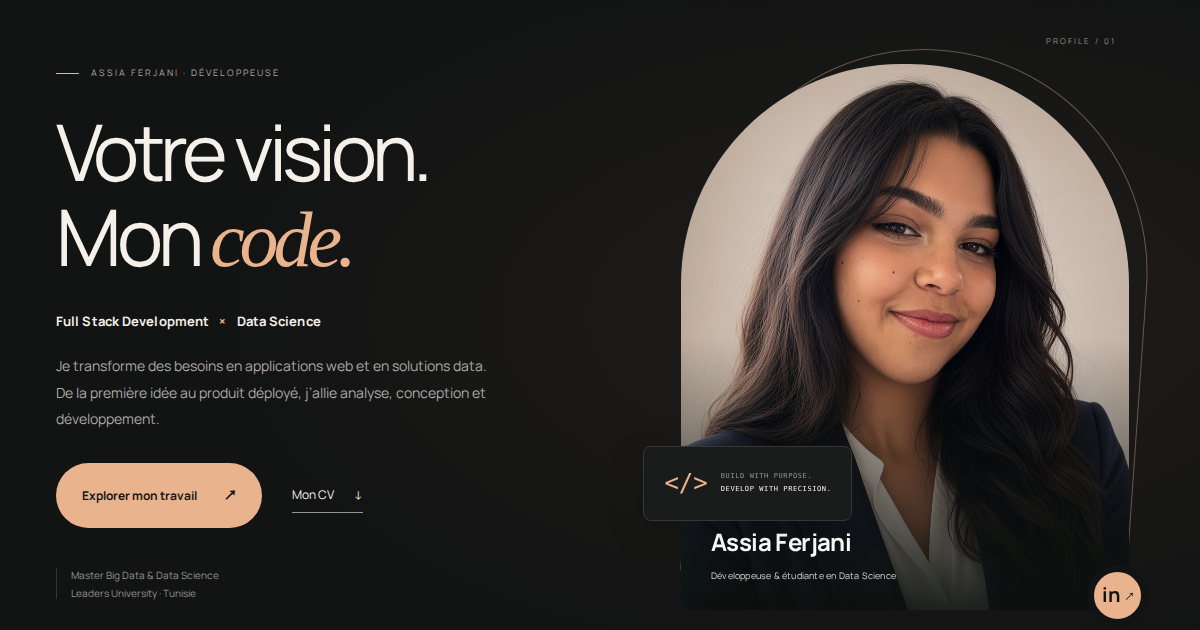
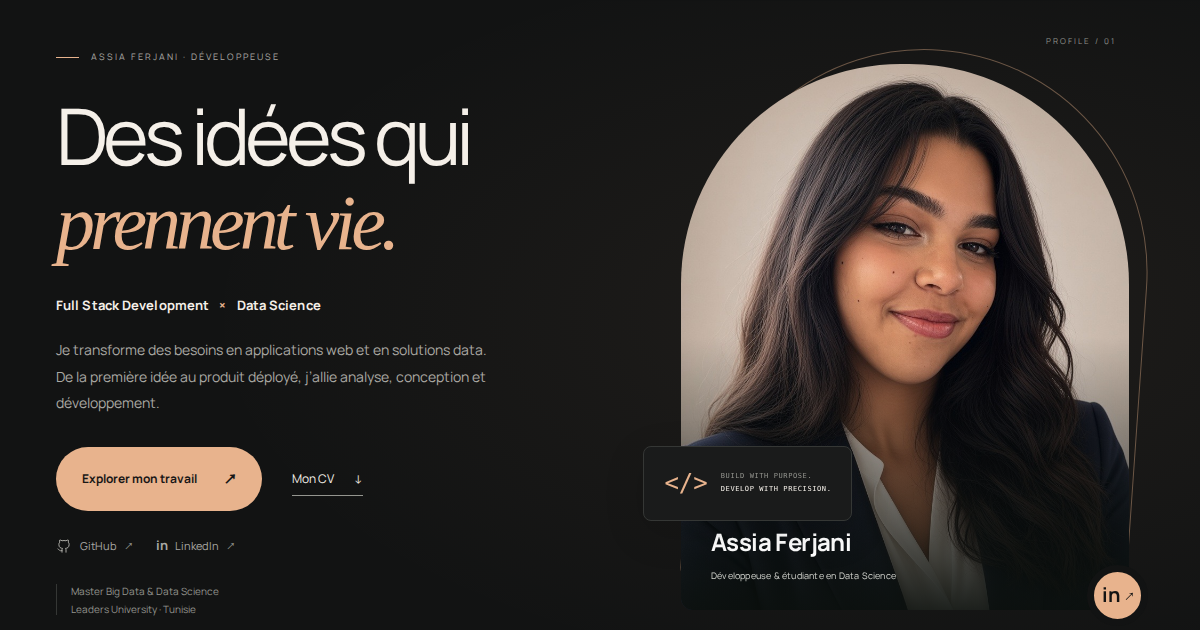
Refresh hero headline and add professional profile links

diff --git a/index.html b/index.html
@@ -11,10 +11,10 @@
 <a href="#main" class="skip-link" data-fr="Aller au contenu" data-en="Skip to content">Aller au contenu</a>
 <header class="site-header"><div class="nav-shell"><a href="#" class="wordmark" aria-label="Assia Ferjani — accueil"><span class="brand-icon">af</span><span>Assia Ferjani<span class="brand-caption">FULL STACK · DATA SCIENCE</span></span></a><nav class="desktop-nav" aria-label="Navigation principale"><a href="#projects" data-fr="Projets" data-en="Projects">Projets</a><a href="#about" data-fr="Expertises" data-en="Expertise">Expertises</a><a href="#journey" data-fr="Parcours" data-en="Experience">Parcours</a></nav><div class="nav-actions"><div class="language-switch" aria-label="Language"><button data-lang="fr" aria-pressed="true">FR</button><button data-lang="en" aria-pressed="false">EN</button></div><button id="theme-toggle" class="theme-toggle" type="button" aria-label="Activer le mode clair" title="Activer le mode clair"><svg class="sun" viewBox="0 0 24 24" aria-hidden="true"><circle cx="12" cy="12" r="4"/><path d="M12 2v2m0 16v2M2 12h2m16 0h2M5 5l1.5 1.5m11 11L19 19M5 19l1.5-1.5m11-11L19 5"/></svg><svg class="moon" viewBox="0 0 24 24" aria-hidden="true"><path d="M20.5 13a8.5 8.5 0 0 1-9.5-9.5A8.5 8.5 0 1 0 20.5 13Z"/></svg></button><a class="nav-contact" href="#contact"><span data-fr="Contact" data-en="Contact">Contact</span><span aria-hidden="true">↗</span></a><button class="menu-toggle" aria-expanded="false" aria-controls="mobile-nav" aria-label="Ouvrir le menu"><span></span><span></span></button></div></div><nav id="mobile-nav" class="mobile-nav" hidden aria-label="Navigation mobile"><a href="#projects" data-fr="Projets" data-en="Projects">Projets</a><a href="#about" data-fr="Expertises" data-en="Expertise">Expertises</a><a href="#journey" data-fr="Parcours" data-en="Experience">Parcours</a><a href="#contact">Contact</a></nav></header>
 <main id="main">
-<section class="hero" aria-labelledby="hero-title"><div class="hero-light" aria-hidden="true"></div><div class="container hero-composition"><div class="hero-copy"><div class="intro-kicker"><span></span><span data-fr="ASSIA FERJANI · DÉVELOPPEUSE" data-en="ASSIA FERJANI · DEVELOPER">ASSIA FERJANI · DÉVELOPPEUSE</span></div><h1 id="hero-title" data-fr="Votre vision.<br>Mon <em>code.</em>" data-en="Your vision.<br>My <em>code.</em>">Votre vision.<br>Mon <em>code.</em></h1><p class="hero-specialty">Full Stack Development <span>×</span> Data Science</p><p class="hero-intro" data-fr="Je transforme des besoins en applications web et en solutions data. De la première idée au produit déployé, j’allie analyse, conception et développement." data-en="I turn ideas into web applications and data solutions. From the first concept to deployment, I bring together analysis, design and development.">Je transforme des besoins en applications web et en solutions data. De la première idée au produit déployé, j’allie analyse, conception et développement.</p><div class="hero-actions"><a class="button primary" href="#projects"><span data-fr="Explorer mon travail" data-en="Explore my work">Explorer mon travail</span><span aria-hidden="true">↗</span></a><a class="resume-link" href="assets/Assia_Ferjani_CV.pdf" download><span data-fr="Mon CV" data-en="My CV (FR)">Mon CV</span><span aria-hidden="true">↓</span></a></div><div class="hero-detail"><span class="detail-line"></span><span data-fr="Master Big Data & Data Science<br>Leaders University · Tunisie" data-en="Master’s in Big Data & Data Science<br>Leaders University · Tunisia">Master Big Data & Data Science<br>Leaders University · Tunisie</span></div></div><div class="portrait-stage"><span class="portrait-coordinate" aria-hidden="true">PROFILE / 01</span><div class="portrait-outline" aria-hidden="true"></div><div class="portrait-frame"><img src="assets/assia-portrait.jpeg" alt="Portrait d’Assia Ferjani" width="1024" height="1024" fetchpriority="high"><div class="portrait-caption"><span>Assia Ferjani</span><span data-fr="Développeuse & étudiante en Data Science" data-en="Developer & Data Science student">Développeuse & étudiante en Data Science</span></div></div><div class="floating-code" aria-hidden="true"><span class="code-mark">&lt;/&gt;</span><span>BUILD WITH PURPOSE.<br><b>DEVELOP WITH PRECISION.</b></span></div><a class="portrait-social" href="https://www.linkedin.com/in/assiaferjani" target="_blank" rel="noopener noreferrer" aria-label="Profil LinkedIn d’Assia Ferjani">in <span>↗</span></a></div><div class="hero-bottom"><span data-fr="DE L’IDÉE À L’INTERFACE." data-en="FROM IDEA TO INTERFACE.">DE L’IDÉE À L’INTERFACE.</span><a href="#projects"><span data-fr="DÉCOUVRIR LES PROJETS" data-en="DISCOVER THE WORK">DÉCOUVRIR LES PROJETS</span><span aria-hidden="true">↓</span></a></div></div></section><div class="tech-ribbon" aria-label="Technologies"><div class="ribbon-track"><span>React</span><i>✳</i><span>Python</span><i>✳</i><span>TypeScript</span><i>✳</i><span>Node.js</span><i>✳</i><span>Apache Spark</span><i>✳</i><span>Microsoft Fabric</span></div></div>
+<section class="hero" aria-labelledby="hero-title"><div class="hero-light" aria-hidden="true"></div><div class="container hero-composition"><div class="hero-copy"><div class="intro-kicker"><span></span><span data-fr="ASSIA FERJANI · DÉVELOPPEUSE" data-en="ASSIA FERJANI · DEVELOPER">ASSIA FERJANI · DÉVELOPPEUSE</span></div><h1 id="hero-title" data-fr="Des idées qui<br><em>prennent vie.</em>" data-en="Where ideas<br><em>come to life.</em>">Des idées qui<br><em>prennent vie.</em></h1><p class="hero-specialty">Full Stack Development <span>×</span> Data Science</p><p class="hero-intro" data-fr="Je transforme des besoins en applications web et en solutions data. De la première idée au produit déployé, j’allie analyse, conception et développement." data-en="I turn ideas into web applications and data solutions. From the first concept to deployment, I bring together analysis, design and development.">Je transforme des besoins en applications web et en solutions data. De la première idée au produit déployé, j’allie analyse, conception et développement.</p><div class="hero-actions"><a class="button primary" href="#projects"><span data-fr="Explorer mon travail" data-en="Explore my work">Explorer mon travail</span><span aria-hidden="true">↗</span></a><a class="resume-link" href="assets/Assia_Ferjani_CV.pdf" download><span data-fr="Mon CV" data-en="My CV (FR)">Mon CV</span><span aria-hidden="true">↓</span></a></div><div class="hero-socials" aria-label="Profils professionnels"><a href="https://github.com/assiaferjani" target="_blank" rel="noopener noreferrer"><svg viewBox="0 0 24 24" aria-hidden="true"><path d="M9 19c-4.3 1.3-4.3-2.2-6-2.7m12 5v-3.4a3 3 0 0 0-.8-2.3c2.7-.3 5.5-1.3 5.5-6a4.7 4.7 0 0 0-1.3-3.3 4.3 4.3 0 0 0-.1-3.3S17.3 2.7 15 4.2a11.3 11.3 0 0 0-6 0C6.7 2.7 5.7 3 5.7 3a4.3 4.3 0 0 0-.1 3.3 4.7 4.7 0 0 0-1.3 3.3c0 4.7 2.8 5.7 5.5 6A3 3 0 0 0 9 18v3.3"/></svg>GitHub <span aria-hidden="true">↗</span></a><a href="https://www.linkedin.com/in/assiaferjani/" target="_blank" rel="noopener noreferrer"><span class="social-in" aria-hidden="true">in</span>LinkedIn <span aria-hidden="true">↗</span></a></div><div class="hero-detail"><span class="detail-line"></span><span data-fr="Master Big Data & Data Science<br>Leaders University · Tunisie" data-en="Master’s in Big Data & Data Science<br>Leaders University · Tunisia">Master Big Data & Data Science<br>Leaders University · Tunisie</span></div></div><div class="portrait-stage"><span class="portrait-coordinate" aria-hidden="true">PROFILE / 01</span><div class="portrait-outline" aria-hidden="true"></div><div class="portrait-frame"><img src="assets/assia-portrait.jpeg" alt="Portrait d’Assia Ferjani" width="1024" height="1024" fetchpriority="high"><div class="portrait-caption"><span>Assia Ferjani</span><span data-fr="Développeuse & étudiante en Data Science" data-en="Developer & Data Science student">Développeuse & étudiante en Data Science</span></div></div><div class="floating-code" aria-hidden="true"><span class="code-mark">&lt;/&gt;</span><span>BUILD WITH PURPOSE.<br><b>DEVELOP WITH PRECISION.</b></span></div><a class="portrait-social" href="https://www.linkedin.com/in/assiaferjani/" target="_blank" rel="noopener noreferrer" aria-label="Profil LinkedIn d’Assia Ferjani">in <span>↗</span></a></div><div class="hero-bottom"><span data-fr="DE L’IDÉE À L’INTERFACE." data-en="FROM IDEA TO INTERFACE.">DE L’IDÉE À L’INTERFACE.</span><a href="#projects"><span data-fr="DÉCOUVRIR LES PROJETS" data-en="DISCOVER THE WORK">DÉCOUVRIR LES PROJETS</span><span aria-hidden="true">↓</span></a></div></div></section><div class="tech-ribbon" aria-label="Technologies"><div class="ribbon-track"><span>React</span><i>✳</i><span>Python</span><i>✳</i><span>TypeScript</span><i>✳</i><span>Node.js</span><i>✳</i><span>Apache Spark</span><i>✳</i><span>Microsoft Fabric</span></div></div>
 <section id="projects" class="container section work-section" aria-labelledby="work-title"><div class="section-heading"><div><div class="eyebrow"><span>01</span> <span data-fr="PROJETS SÉLECTIONNÉS" data-en="SELECTED PROJECTS">PROJETS SÉLECTIONNÉS</span></div><h2 id="work-title" data-fr="Une idée. Une solution.<br><em>Du concret.</em>" data-en="An idea. A solution.<br><em>Made real.</em>">Une idée. Une solution.<br><em>Du concret.</em></h2></div><p data-fr="Applications web, machine learning et analyse de données. Une sélection de mon travail." data-en="Web applications, machine learning and data analytics. A selection of my work.">Applications web, machine learning et analyse de données. Une sélection de mon travail.</p></div><div class="work-toolbar"><div class="filters" role="group" aria-label="Filtrer les projets"><button data-filter="all" class="active" aria-pressed="true"><span data-fr="Tous" data-en="All">Tous</span><sup>06</sup></button><button data-filter="data" aria-pressed="false">Data & IA<sup>04</sup></button><button data-filter="web" aria-pressed="false">Web & SaaS<sup>02</sup></button></div><span class="project-hint" data-fr="Sélectionnez un projet pour en savoir plus ↗" data-en="Select a project to explore the details ↗">Sélectionnez un projet pour en savoir plus ↗</span></div><div id="project-grid" class="projects-grid"></div><p class="visual-note" data-fr="Les aperçus sont des illustrations conceptuelles des projets." data-en="Previews are conceptual illustrations of the projects.">Les aperçus sont des illustrations conceptuelles des projets.</p></section>
-<section id="about" class="about-section section" aria-labelledby="about-title"><div class="container"><div class="eyebrow"><span>02</span><span data-fr="PROFIL & EXPERTISES" data-en="PROFILE & EXPERTISE">PROFIL & EXPERTISES</span></div><div class="about-layout"><div class="about-copy"><h2 id="about-title" data-fr="La rigueur du code.<br>La curiosité <em>en plus.</em>" data-en="Precision in code.<br>Curiosity <em>at heart.</em>">La rigueur du code.<br>La curiosité <em>en plus.</em></h2><p data-fr="Diplômée en multimédia et développement web à l’ISET de Nabeul, je poursuis un master Big Data et Data Science à Leaders University." data-en="A graduate in Multimedia and Web Development from ISET Nabeul, I’m pursuing a master’s in Big Data and Data Science at Leaders University.">Diplômée en multimédia et développement web à l’ISET de Nabeul, je poursuis un master Big Data et Data Science à Leaders University.</p><p data-fr="Mon parcours associe développement full stack, machine learning et ingénierie des données. J’aborde chaque projet en reliant le besoin utilisateur, la qualité des données et la mise en œuvre technique." data-en="My work connects full stack development, machine learning and data engineering. I approach each project by bringing together user needs, data quality and technical implementation.">Mon parcours associe développement full stack, machine learning et ingénierie des données. J’aborde chaque projet en reliant le besoin utilisateur, la qualité des données et la mise en œuvre technique.</p><div class="profile-facts"><div><span data-fr="FORMATION ACTUELLE" data-en="CURRENT EDUCATION">FORMATION ACTUELLE</span><strong>Master Big Data & Data Science</strong></div><div><span data-fr="DOMAINES" data-en="FOCUS AREAS">DOMAINES</span><strong>Web · Machine Learning · Analytics</strong></div></div><a class="text-link" href="https://www.linkedin.com/in/assiaferjani" target="_blank" rel="noopener noreferrer"><span data-fr="Voir mon profil LinkedIn" data-en="View my LinkedIn profile">Voir mon profil LinkedIn</span><span aria-hidden="true">↗</span></a></div><div class="skills-grid"><article class="skill-card"><div class="skill-icon" aria-hidden="true"><svg viewBox="0 0 24 24"><path d="M5 5h14v14H5zM9 9h6v6H9zM9 2v3m6-3v3M9 19v3m6-3v3M2 9h3m-3 6h3M19 9h3m-3 6h3"/></svg></div><h3>Data & Machine Learning</h3><p>Python, R, pandas, scikit-learn, NLP, Hugging Face</p><span>01</span></article><article class="skill-card"><div class="skill-icon" aria-hidden="true"><svg viewBox="0 0 24 24"><path d="m8 6-6 6 6 6m8-12 6 6-6 6m-3-15-2 18"/></svg></div><h3>Full Stack Development</h3><p>React, Angular, TypeScript, Node.js, Spring Boot, MongoDB</p><span>02</span></article><article class="skill-card"><div class="skill-icon" aria-hidden="true"><svg viewBox="0 0 24 24"><ellipse cx="12" cy="5" rx="8" ry="3"/><path d="M4 5v14c0 4 16 4 16 0V5M4 12c0 4 16 4 16 0"/></svg></div><h3>Data Engineering & Cloud</h3><p>SQL, Spark, HDFS, Hive, Microsoft Fabric, AWS, Docker</p><span>03</span></article><article class="skill-card"><div class="skill-icon" aria-hidden="true"><svg viewBox="0 0 24 24"><path d="M3 3v18h18M7 16v-5m5 5V6m5 10v-8"/></svg></div><h3>BI & Analytics</h3><p>Power BI, Metabase, Grafana, Shiny, Git, GitHub</p><span>04</span></article></div></div></div></section>
+<section id="about" class="about-section section" aria-labelledby="about-title"><div class="container"><div class="eyebrow"><span>02</span><span data-fr="PROFIL & EXPERTISES" data-en="PROFILE & EXPERTISE">PROFIL & EXPERTISES</span></div><div class="about-layout"><div class="about-copy"><h2 id="about-title" data-fr="La rigueur du code.<br>La curiosité <em>en plus.</em>" data-en="Precision in code.<br>Curiosity <em>at heart.</em>">La rigueur du code.<br>La curiosité <em>en plus.</em></h2><p data-fr="Diplômée en multimédia et développement web à l’ISET de Nabeul, je poursuis un master Big Data et Data Science à Leaders University." data-en="A graduate in Multimedia and Web Development from ISET Nabeul, I’m pursuing a master’s in Big Data and Data Science at Leaders University.">Diplômée en multimédia et développement web à l’ISET de Nabeul, je poursuis un master Big Data et Data Science à Leaders University.</p><p data-fr="Mon parcours associe développement full stack, machine learning et ingénierie des données. J’aborde chaque projet en reliant le besoin utilisateur, la qualité des données et la mise en œuvre technique." data-en="My work connects full stack development, machine learning and data engineering. I approach each project by bringing together user needs, data quality and technical implementation.">Mon parcours associe développement full stack, machine learning et ingénierie des données. J’aborde chaque projet en reliant le besoin utilisateur, la qualité des données et la mise en œuvre technique.</p><div class="profile-facts"><div><span data-fr="FORMATION ACTUELLE" data-en="CURRENT EDUCATION">FORMATION ACTUELLE</span><strong>Master Big Data & Data Science</strong></div><div><span data-fr="DOMAINES" data-en="FOCUS AREAS">DOMAINES</span><strong>Web · Machine Learning · Analytics</strong></div></div><a class="text-link" href="https://www.linkedin.com/in/assiaferjani/" target="_blank" rel="noopener noreferrer"><span data-fr="Voir mon profil LinkedIn" data-en="View my LinkedIn profile">Voir mon profil LinkedIn</span><span aria-hidden="true">↗</span></a></div><div class="skills-grid"><article class="skill-card"><div class="skill-icon" aria-hidden="true"><svg viewBox="0 0 24 24"><path d="M5 5h14v14H5zM9 9h6v6H9zM9 2v3m6-3v3M9 19v3m6-3v3M2 9h3m-3 6h3M19 9h3m-3 6h3"/></svg></div><h3>Data & Machine Learning</h3><p>Python, R, pandas, scikit-learn, NLP, Hugging Face</p><span>01</span></article><article class="skill-card"><div class="skill-icon" aria-hidden="true"><svg viewBox="0 0 24 24"><path d="m8 6-6 6 6 6m8-12 6 6-6 6m-3-15-2 18"/></svg></div><h3>Full Stack Development</h3><p>React, Angular, TypeScript, Node.js, Spring Boot, MongoDB</p><span>02</span></article><article class="skill-card"><div class="skill-icon" aria-hidden="true"><svg viewBox="0 0 24 24"><ellipse cx="12" cy="5" rx="8" ry="3"/><path d="M4 5v14c0 4 16 4 16 0V5M4 12c0 4 16 4 16 0"/></svg></div><h3>Data Engineering & Cloud</h3><p>SQL, Spark, HDFS, Hive, Microsoft Fabric, AWS, Docker</p><span>03</span></article><article class="skill-card"><div class="skill-icon" aria-hidden="true"><svg viewBox="0 0 24 24"><path d="M3 3v18h18M7 16v-5m5 5V6m5 10v-8"/></svg></div><h3>BI & Analytics</h3><p>Power BI, Metabase, Grafana, Shiny, Git, GitHub</p><span>04</span></article></div></div></div></section>
 <section id="journey" class="container section journey-section" aria-labelledby="journey-title"><div class="section-heading"><div><div class="eyebrow"><span>03</span><span data-fr="EXPÉRIENCE & FORMATION" data-en="EXPERIENCE & EDUCATION">EXPÉRIENCE & FORMATION</span></div><h2 id="journey-title" data-fr="Apprendre. Construire.<br><em>Aller plus loin.</em>" data-en="Learn. Build.<br><em>Go further.</em>">Apprendre. Construire.<br><em>Aller plus loin.</em></h2></div><a class="text-link" href="assets/Assia_Ferjani_CV.pdf" download><span data-fr="Consulter mon CV" data-en="View my résumé">Consulter mon CV</span><span aria-hidden="true">↗</span></a></div><div class="journey-grid"><div><h3 class="column-label"><span class="label-icon" aria-hidden="true">▣</span><span data-fr="Expérience professionnelle" data-en="Professional experience">Expérience professionnelle</span></h3><div id="experience-list"></div></div><div><h3 class="column-label"><span class="label-icon" aria-hidden="true">◇</span><span data-fr="Formation académique" data-en="Education">Formation académique</span></h3><div id="education-list"></div><div class="learning-note"><span class="learning-icon" aria-hidden="true">↗</span><div><h4 data-fr="Formation continue" data-en="Continuing education">Formation continue</h4><p data-fr="Microsoft Fabric : 14 labs & préparation DP-600.<br>AWS Cloud Quest : badges Cloud Practitioner et Generative AI Practitioner.<br>Atelier AWS & data engineering." data-en="Microsoft Fabric: 14 labs & DP-600 preparation.<br>AWS Cloud Quest: Cloud Practitioner and Generative AI Practitioner training badges.<br>AWS & data engineering workshop.">Microsoft Fabric : 14 labs & préparation DP-600.<br>AWS Cloud Quest : badges Cloud Practitioner et Generative AI Practitioner.<br>Atelier AWS & data engineering.</p></div></div></div></div></section>
-<section id="contact" class="contact-section" aria-labelledby="contact-title"><div class="container"><div class="contact-panel"><img class="contact-avatar" src="assets/assia-portrait.jpeg" alt="Assia Ferjani" width="72" height="72" loading="lazy"><div class="contact-glow" aria-hidden="true"></div><div class="eyebrow"><span>04</span> CONTACT</div><h2 id="contact-title" data-fr="Votre prochain projet<br>commence <em>ici.</em>" data-en="Your next project<br>starts <em>here.</em>">Votre prochain projet<br>commence <em>ici.</em></h2><p data-fr="Une opportunité, un projet ou une question ?<br>Je serais ravie d’échanger avec vous." data-en="An opportunity, a project, or a question?<br>I’d be happy to hear from you.">Une opportunité, un projet ou une question ?<br>Je serais ravie d’échanger avec vous.</p><a class="button primary" href="mailto:assiaferjani123@gmail.com"><span data-fr="Me contacter" data-en="Get in touch">Me contacter</span><span aria-hidden="true">↗</span></a><div class="contact-email"><a href="mailto:assiaferjani123@gmail.com">assiaferjani123@gmail.com</a><button id="copy-email" aria-label="Copier l’adresse e-mail"><svg viewBox="0 0 24 24" aria-hidden="true"><rect x="8" y="8" width="12" height="12" rx="2"/><path d="M16 8V4H4v12h4"/></svg></button></div><div class="contact-socials"><a href="https://www.linkedin.com/in/assiaferjani" target="_blank" rel="noopener noreferrer">LinkedIn ↗</a><span aria-hidden="true">/</span><a href="tel:+21654327445">+216 54 327 445</a></div></div><footer><a class="footer-brand" href="#"><span class="brand-icon">af</span> Assia Ferjani</a><span>© <span id="year">2026</span> <span data-fr="Tous droits réservés." data-en="All rights reserved.">Tous droits réservés.</span></span><a href="#" class="back-top"><span data-fr="Retour en haut" data-en="Back to top">Retour en haut</span> ↑</a></footer></div></section>
+<section id="contact" class="contact-section" aria-labelledby="contact-title"><div class="container"><div class="contact-panel"><img class="contact-avatar" src="assets/assia-portrait.jpeg" alt="Assia Ferjani" width="72" height="72" loading="lazy"><div class="contact-glow" aria-hidden="true"></div><div class="eyebrow"><span>04</span> CONTACT</div><h2 id="contact-title" data-fr="Votre prochain projet<br>commence <em>ici.</em>" data-en="Your next project<br>starts <em>here.</em>">Votre prochain projet<br>commence <em>ici.</em></h2><p data-fr="Une opportunité, un projet ou une question ?<br>Je serais ravie d’échanger avec vous." data-en="An opportunity, a project, or a question?<br>I’d be happy to hear from you.">Une opportunité, un projet ou une question ?<br>Je serais ravie d’échanger avec vous.</p><a class="button primary" href="mailto:assiaferjani123@gmail.com"><span data-fr="Me contacter" data-en="Get in touch">Me contacter</span><span aria-hidden="true">↗</span></a><div class="contact-email"><a href="mailto:assiaferjani123@gmail.com">assiaferjani123@gmail.com</a><button id="copy-email" aria-label="Copier l’adresse e-mail"><svg viewBox="0 0 24 24" aria-hidden="true"><rect x="8" y="8" width="12" height="12" rx="2"/><path d="M16 8V4H4v12h4"/></svg></button></div><div class="contact-socials"><a href="https://github.com/assiaferjani" target="_blank" rel="noopener noreferrer">GitHub ↗</a><span aria-hidden="true">/</span><a href="https://www.linkedin.com/in/assiaferjani/" target="_blank" rel="noopener noreferrer">LinkedIn ↗</a><span aria-hidden="true">/</span><a href="tel:+21654327445">+216 54 327 445</a></div></div><footer><a class="footer-brand" href="#"><span class="brand-icon">af</span> Assia Ferjani</a><span>© <span id="year">2026</span> <span data-fr="Tous droits réservés." data-en="All rights reserved.">Tous droits réservés.</span></span><a href="#" class="back-top"><span data-fr="Retour en haut" data-en="Back to top">Retour en haut</span> ↑</a></footer></div></section>
 </main><dialog id="project-dialog" aria-labelledby="dialog-title"><button class="dialog-close" aria-label="Fermer le projet">✕</button><div id="dialog-content"></div></dialog><div id="toast" role="status" aria-live="polite"></div>
 </body></html>

diff --git a/redesign.css b/redesign.css
@@ -7,3 +7,14 @@
 @media(max-width:600px){.container,.nav-shell{width:calc(100% - 40px)}.nav-shell{height:77px}.wordmark{font-size:12px;gap:10px}.brand-icon{font-size:30px;width:29px}.brand-caption{font-size:5px;letter-spacing:.9px}.nav-actions{gap:8px}.desktop-nav{display:none}.hero-composition{grid-template-columns:1fr;gap:39px;padding-top:35px}.hero-copy{padding:0}.intro-kicker{font-size:8px;letter-spacing:1.2px;margin-bottom:24px}.hero h1{font-size:clamp(62px,15vw,85px);letter-spacing:-3.4px;line-height:1.06;margin-bottom:23px;white-space:normal}.hero h1 em{letter-spacing:-3.4px}.hero-specialty{font-size:11px;margin-bottom:17px}.hero-intro{font-size:13px;max-width:370px;margin:0;line-height:1.9}.hero-actions{justify-content:flex-start;margin-top:24px;gap:27px}.button{font-size:11px;padding:15px 22px;gap:22px}.resume-link{font-size:11px;gap:17px}.hero-detail{font-size:9px;margin-top:25px}.portrait-stage{justify-self:center;max-width:365px;width:calc(100% - 24px);padding:12px 10px 20px 0;margin-left:8px}.portrait-frame{aspect-ratio:.87;border-radius:190px 190px 10px 10px}.portrait-caption>span:first-child{font-size:23px}.portrait-caption>span:last-child{font-size:8px}.portrait-coordinate{font-size:7px;right:22px;top:-9px}.floating-code{left:-16px;bottom:105px;padding:12px 16px}.code-mark{font-size:21px}.floating-code>span:last-child{font-size:6px}.portrait-social{right:-4px;bottom:0;width:57px;height:57px}.hero-bottom{gap:18px;margin-top:-8px;font-size:6px;letter-spacing:1px}.hero-bottom>span{max-width:130px}.hero-bottom a{gap:13px;font-size:6px}.ribbon-track{justify-content:flex-start;gap:25px;padding-inline:23px}.ribbon-track>span{font-size:17px}.tech-ribbon{padding-block:16px}.section{padding-block:62px}.section-heading{margin-bottom:28px}.section-heading h2,.about-copy h2{font-size:39px;line-height:1.16;letter-spacing:-1.8px;margin-top:20px}.section-heading>p{font-size:12px;max-width:320px;margin-top:20px}.work-toolbar{padding-bottom:18px;margin-bottom:25px}.filters{gap:6px}.filters button{font-size:10px;padding:8px 13px}.projects-grid{grid-template-columns:1fr;gap:35px}.project-visual{border-radius:9px}.project-copy{padding-top:19px}.project-title{font-size:23px;margin-bottom:10px}.project-meta{font-size:8px;margin-bottom:10px}.project-meta>span:first-child{font-size:8px}.project-summary{font-size:12px}.project-stack{padding-top:13px}.project-stack span{font-size:8px}.about-layout{margin-top:0;gap:30px}.about-copy h2{margin-bottom:25px;font-size:36px}.about-copy>p{font-size:12px}.profile-facts{display:flex;margin-block:24px}.skills-grid{gap:0}.skill-card{padding:20px 17px;min-height:210px}.skill-icon{margin-bottom:23px}.skill-icon svg{width:24px}.skill-card h3{font-size:13px}.skill-card p{font-size:10px}.skill-card>span{top:23px;right:18px;font-size:9px}.journey-grid{grid-template-columns:1fr;gap:39px;margin-top:30px}.column-label{font-size:13px;margin-bottom:27px}.journey-item h4{font-size:19px}.journey-item p{font-size:12px}.journey-item{padding-left:25px}.journey-top{font-size:9px}.journey-top>span:first-child{font-size:10px}.learning-note{padding:20px}.contact-panel{padding:45px 0 36px}.contact-panel h2{font-size:48px;letter-spacing:-2px;margin-top:22px}.contact-panel>p{font-size:12px;margin-top:20px}.contact-avatar{width:62px;height:62px}.contact-email{font-size:12px}.contact-socials{font-size:10px}footer{padding-block:23px}.dialog-body{padding:28px 23px}.dialog-visual{height:215px}.dialog-body h2{font-size:26px}.dialog-body .project-stack{padding-top:18px}}
 @media(max-width:360px){.container,.nav-shell{width:calc(100% - 32px)}.brand-caption{display:none}.hero h1{font-size:57px}.hero-specialty{font-size:9px}.intro-kicker{font-size:7px}.hero-intro{font-size:12px}.skill-card{padding:18px 13px}.skill-card h3{font-size:12px}.contact-panel h2{font-size:42px}.project-title{font-size:21px}}
 @media(prefers-reduced-motion:reduce){.reveal-ready{opacity:1;transform:none}.portrait-frame,.floating-code,.ribbon-track{transform:none!important}.hero-copy,.portrait-stage{animation:none}.project-visual,.project-visual svg{transform:none!important}}
+
+/* Professional profiles, directly accessible from the introduction. */
+.hero-socials{display:flex;align-items:center;gap:24px;margin-top:23px;color:var(--muted)}
+.hero-socials a{display:inline-flex;align-items:center;gap:8px;font-size:11px;transition:color .2s}
+.hero-socials a:hover{color:var(--accent)}
+.hero-socials svg{width:16px;height:16px;fill:none;stroke:currentColor;stroke-width:1.5;stroke-linecap:round;stroke-linejoin:round}
+.hero-socials a>span:last-child{font-size:12px;color:var(--quiet)}
+.social-in{font-size:13px;font-weight:700;letter-spacing:-.5px}
+.hero-detail{margin-top:24px}
+.contact-socials{flex-wrap:wrap}
+@media(max-width:600px){.hero-socials{margin-top:22px;gap:25px}.hero-socials a{font-size:10px}.hero-detail{margin-top:23px}}
